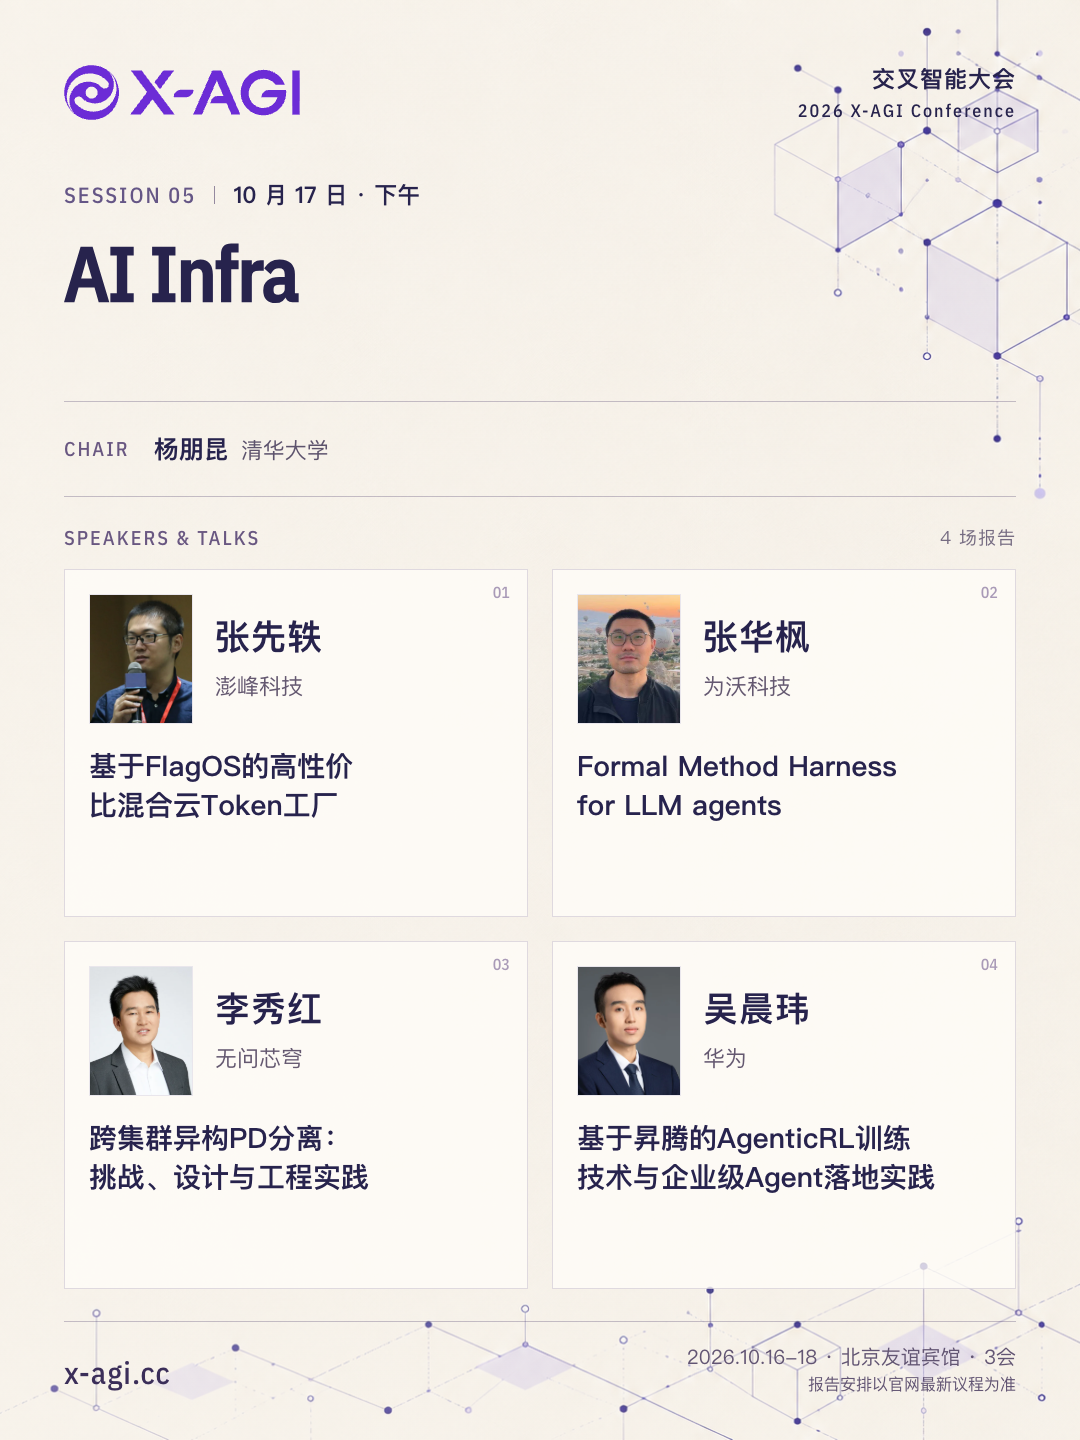
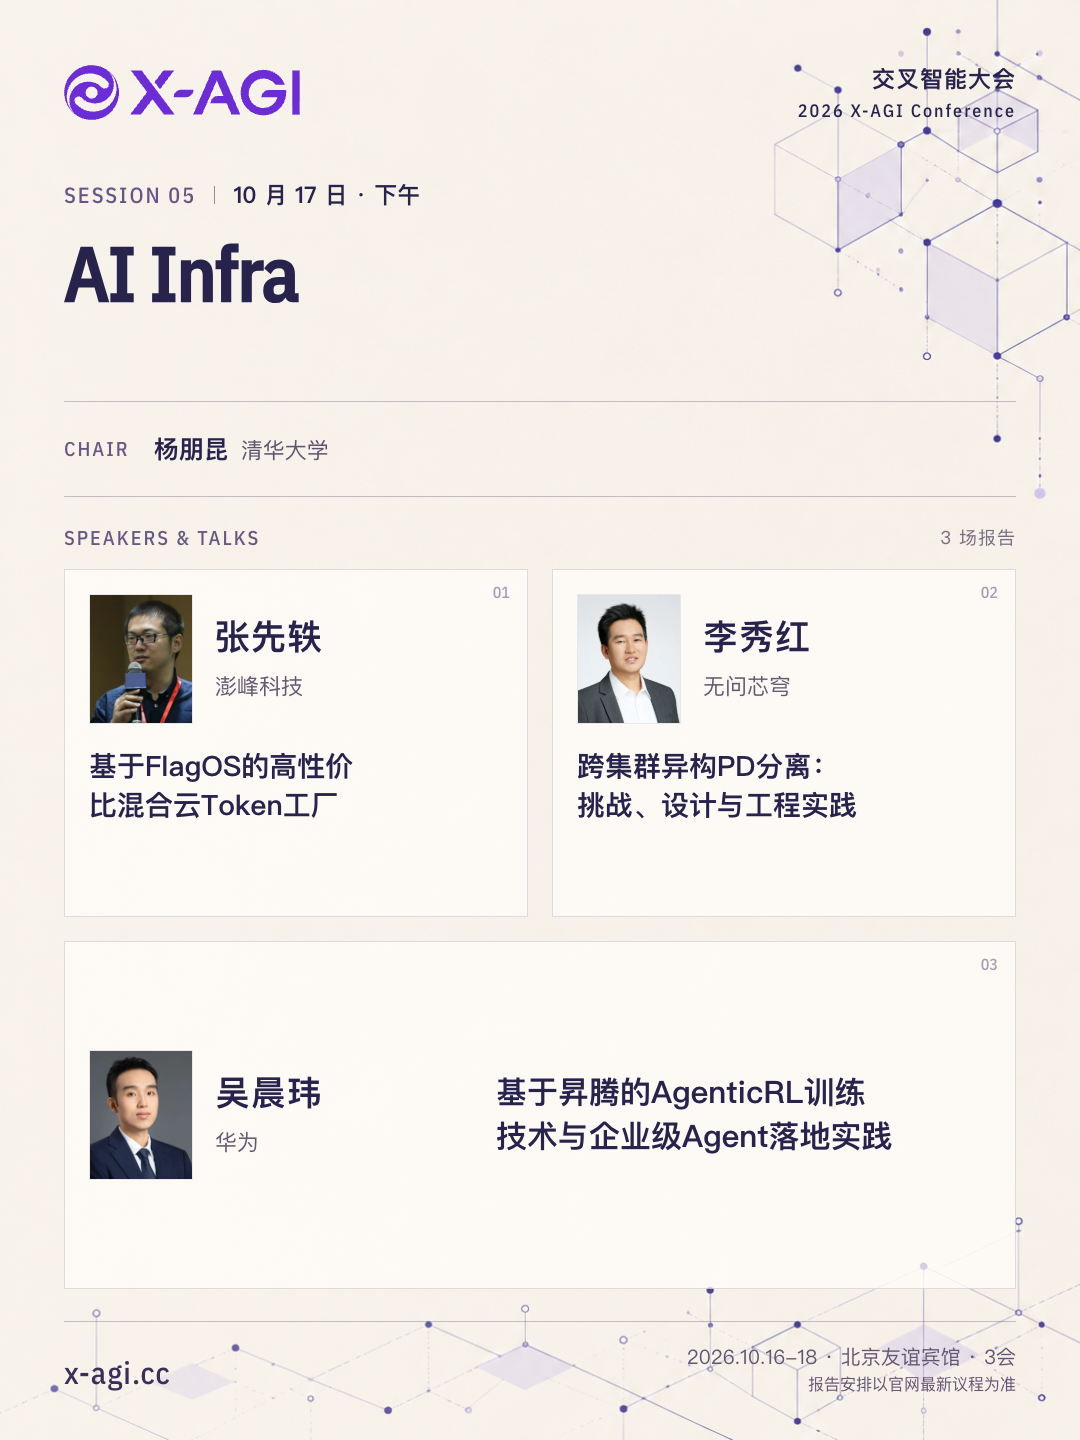
Update speaker lineup and add individual talk times

Changed region(s): [[0.4583, 0.6562, 0.8556, 0.8438], [0.5194, 0.4062, 0.825, 0.5938], [0.0611, 0.6562, 0.3361, 0.8438]]

diff --git a/src/data/conference2026.test.ts b/src/data/conference2026.test.ts
@@ -10,6 +10,7 @@ import {
 } from './conference2026.ts';
 import { conference2026ProgramSource } from './conference2026-program.generated.ts';
 import { conference2026ProgramSessions, withOrganizerRemarks } from './conference2026-program.ts';
+import { programSessionTalks } from './conference2026-talk-times.ts';
 import { partnerLogoByName } from './partner-logo-assets-2026.ts';
 
 const scheduleCategories = new Set(['arrival', 'keynote', 'parallel', 'poster', 'discussion']);
@@ -127,6 +128,39 @@ describe('conference schedule contracts', () => {
     assert.deepEqual(conference2026ProgramSessions.flatMap((session, index) => session.livestream ? [index + 1] : []), [1, 5, 10, 14]);
     assert.deepEqual(conference2026ProgramSessions[11].speakers.map((speaker) => speaker.name), ['刘威杨', '刘华斌', '李根', '王淏楠']);
     assert.deepEqual(conference2026ProgramSessions[11].chairs.map((chair) => chair.name), ['胡天阳']);
+  });
+
+  it('assigns consecutive individual slots and preserves the confirmed Keynote timetable', () => {
+    const timetables = conference2026.schedule.flatMap((day) => day.sessions);
+    const expectedSlots = new Map([
+      ['10.17下午/3', ['14:00-14:40', '14:40-15:20', '15:20-16:00']],
+      ['10.17下午/4', ['14:00-14:30', '14:30-15:00', '15:00-15:30', '15:30-16:00']],
+      ['10.18上午/3', ['10:00-10:40', '10:40-11:20', '11:20-12:00']],
+      ['10.18上午/4', ['10:00-10:30', '10:30-11:00', '11:00-11:30', '11:30-12:00']],
+      ['10.18下午/3', ['14:00-14:40', '14:40-15:20', '15:20-16:00']],
+      ['10.18下午/4', ['14:00-14:30', '14:30-15:00', '15:00-15:30', '15:30-16:00']],
+    ]);
+    for (const session of conference2026ProgramSessions) {
+      const timetable = timetables.find((entry) => entry.sourceTime === session.sourceTime && entry.category !== 'discussion');
+      const talks = programSessionTalks(session, timetable);
+      if (timetable?.category === 'keynote') {
+        assert.equal(talks, timetable.talks);
+        assert.deepEqual(talks.map((talk) => talk.time), ['08:45-09:10', '09:10-10:00', '10:00-10:50', '10:50-11:10', '11:10-12:00']);
+      } else {
+        assert.deepEqual(talks.map((talk) => talk.speaker), session.speakers.map((speaker) => speaker.name));
+        assert.deepEqual(talks.map((talk) => talk.time), expectedSlots.get(`${session.sourceTime}/${session.speakers.length}`), session.title);
+      }
+    }
+    assert.deepEqual(conference2026ProgramSessions[4].speakers.map((speaker) => speaker.name), ['张先轶', '李秀红', '吴晨玮']);
+    assert.deepEqual(conference2026ProgramSessions[10].speakers.map((speaker) => speaker.name), ['刘子鸣', '张耀宇', 'TBD']);
+  });
+
+  it('requires confirmation instead of inventing slots for a changed session length or speaker count', () => {
+    const session = conference2026ProgramSessions[4];
+    const timetable = conference2026.schedule.flatMap((day) => day.sessions).find((entry) => entry.category === 'parallel')!;
+    assert.throws(() => programSessionTalks(session, { ...timetable, time: '14:00-15:30' }), /Expected a two-hour parallel session/u);
+    assert.throws(() => programSessionTalks({ ...session, speakers: session.speakers.slice(0, 1) }, timetable), /Confirm individual talk times/u);
+    assert.throws(() => programSessionTalks({ ...session, speakers: session.speakers.slice(0, 2) }, timetable), /Confirm individual talk times/u);
   });
 });
 

diff --git a/src/data/home-speakers.test.ts b/src/data/home-speakers.test.ts
@@ -9,8 +9,8 @@ const scheduledChairs = new Set(conference2026ProgramSessions.flatMap((session) 
 
 describe('homepage speaker lineup', () => {
   it('includes every confirmed Speaker and Chair exactly once, regardless of portrait or profile availability', () => {
-    const expectedNames = new Set([...scheduledSpeakers, ...scheduledChairs].filter((name) => name !== '待确认'));
-    assert.equal(homeSpeakers.length, 60);
+    const expectedNames = new Set([...scheduledSpeakers, ...scheduledChairs].filter((name) => !['待确认', 'TBD'].includes(name)));
+    assert.equal(homeSpeakers.length, 58);
     assert.equal(new Set(homeSpeakers.map((speaker) => speaker.id)).size, homeSpeakers.length);
     assert.deepEqual(new Set(homeSpeakers.map((speaker) => speaker.name)), expectedNames);
     for (const speaker of homeSpeakers) {
@@ -20,7 +20,7 @@ describe('homepage speaker lineup', () => {
   });
 
   it('places missing portraits last, preserves order within both groups and keeps dual-role speaker links', () => {
-    const scheduledNames = [...new Set([...scheduledSpeakers, ...scheduledChairs])].filter((name) => name !== '待确认');
+    const scheduledNames = [...new Set([...scheduledSpeakers, ...scheduledChairs])].filter((name) => !['待确认', 'TBD'].includes(name));
     const withPortraits = scheduledNames.filter((name) => conference2026PersonForName(name)?.portraitSrc);
     const withoutPortraits = scheduledNames.filter((name) => !conference2026PersonForName(name)?.portraitSrc);
     assert.deepEqual(homeSpeakers.slice(0, withPortraits.length).map((speaker) => speaker.name), withPortraits);

diff --git a/src/data/conference2026-talk-times.ts b/src/data/conference2026-talk-times.ts
@@ -1,0 +1,33 @@
+import type { Conference2026ProgramSourceSession } from './conference2026-program.generated.ts';
+import type { ScheduleSession, ScheduleTalk } from './conference2026.ts';
+
+function formatTime(minutes: number) {
+  return `${String(Math.floor(minutes / 60)).padStart(2, '0')}:${String(minutes % 60).padStart(2, '0')}`;
+}
+
+export function programSessionTalks(
+  session: Conference2026ProgramSourceSession,
+  timetable: ScheduleSession | undefined,
+): readonly ScheduleTalk[] {
+  if (timetable?.category !== 'parallel') return timetable?.talks ?? [];
+
+  const count = session.speakers.length;
+  const match = timetable.time?.match(/^(\d{2}):(\d{2})-(\d{2}):(\d{2})$/u);
+  if (!match || ![3, 4].includes(count)) {
+    throw new Error(`Confirm individual talk times for ${session.title}.`);
+  }
+  const [startHour, startMinute, endHour, endMinute] = match.slice(1).map(Number);
+  const start = startHour * 60 + startMinute;
+  const end = endHour * 60 + endMinute;
+  if (startHour > 23 || endHour > 23 || startMinute > 59 || endMinute > 59 || end - start !== 120) {
+    throw new Error(`Expected a two-hour parallel session for ${session.title}.`);
+  }
+
+  const duration = 120 / count;
+  return session.speakers.map((speaker, index) => ({
+    speaker: speaker.name,
+    affiliation: speaker.affiliation,
+    title: speaker.talkTitle ?? '',
+    time: `${formatTime(start + duration * index)}-${formatTime(start + duration * (index + 1))}`,
+  }));
+}

diff --git a/src/data/conference2026-program.ts b/src/data/conference2026-program.ts
@@ -36,14 +36,21 @@ const confirmedTalkTitles = new Map([
 ]);
 // The organizer's October 9 biography confirms his current employer.
 const confirmedAffiliations = new Map([['王淏楠', 'Sharpa']]);
+// Organizer-confirmed withdrawals, 2026-10-13.
+const withdrawnSpeakers = new Set(['周帆', '毛小介', '张华枫', '刘子寅']);
 const revisedSessions = sourceSessions.map((session) => {
+  const availableSpeakers = session.speakers.filter((person) => !withdrawnSpeakers.has(person.name));
   // Organizer-confirmed October 13 lineup: Zhou Feng gives the final talk.
   const speakers = session.title === 'AI的数理和计算基础'
     ? [
-      ...session.speakers.filter((person) => !['周帆', '毛小介', '周峰'].includes(person.name)),
+      ...availableSpeakers.filter((person) => person.name !== '周峰'),
       { name: '周峰', affiliation: '中国人民大学' },
     ]
-    : session.speakers;
+    : availableSpeakers;
+  // The organizer reserved a third 40-minute talk; the speaker is not confirmed yet.
+  if (session.title === 'Physics of Deep Learning' && speakers.length === 2) {
+    speakers.push({ name: 'TBD' });
+  }
   return {
     ...session,
     speakers: speakers.map((person) => {

diff --git a/src/data/home-speakers.ts b/src/data/home-speakers.ts
@@ -17,7 +17,7 @@ function buildHomeSpeakers(): readonly HomeSpeaker[] {
     for (const [sessionIndex, session] of conference2026ProgramSessions.entries()) {
       const scheduledPeople = role === 'speaker' ? session.speakers : session.chairs;
       for (const [personIndex, scheduledPerson] of scheduledPeople.entries()) {
-        if (scheduledPerson.name === '待确认') continue;
+        if (['待确认', 'TBD'].includes(scheduledPerson.name)) continue;
         const person = conference2026PersonForName(scheduledPerson.name);
         const key = person ? `person:${person.id}` : `name:${scheduledPerson.name}`;
         if (seen.has(key)) continue;
